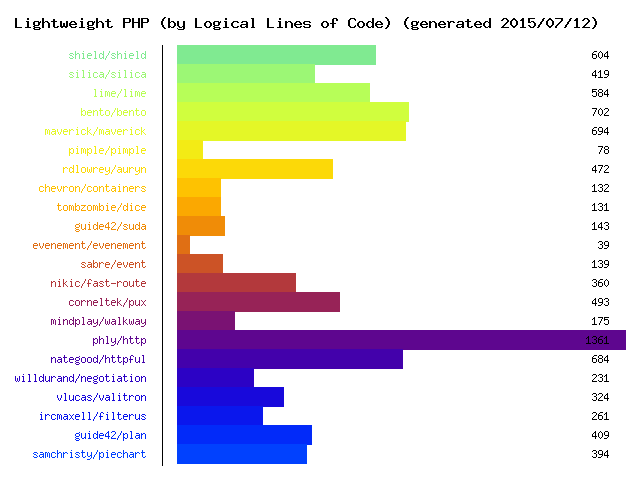
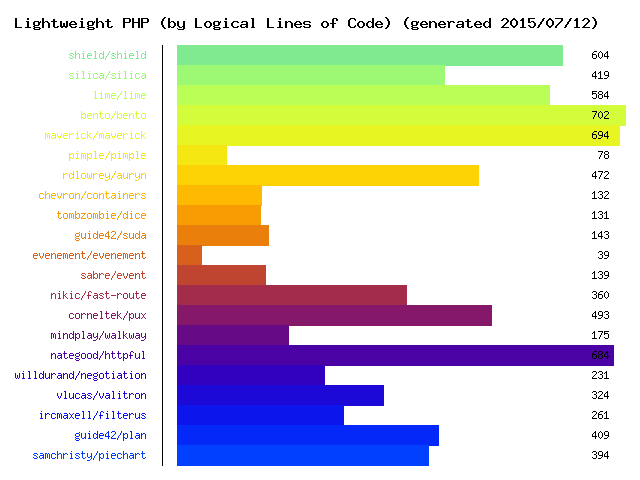
Package phly/http is abandoned.

diff --git a/README.md b/README.md
@@ -44,7 +44,6 @@ List of lightweight PHP libraries.
 
 ## HTTP
 
-* [phly/http](https://github.com/phly/http) - PSR HTTP message implementations
 * [Httpful](https://github.com/nategood/httpful) - A chainable, REST friendly, PHP HTTP client
 * [Negotiation](https://github.com/willdurand/Negotiation) - Content negotiation tools for PHP
 
